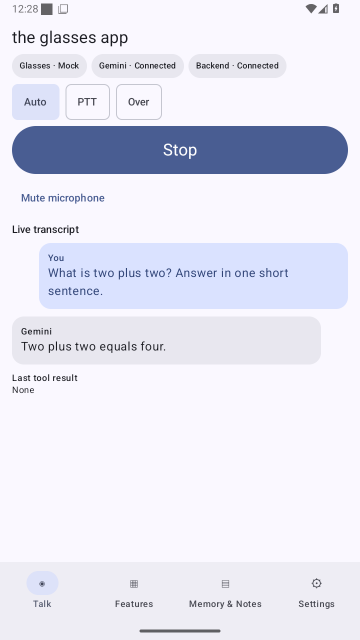
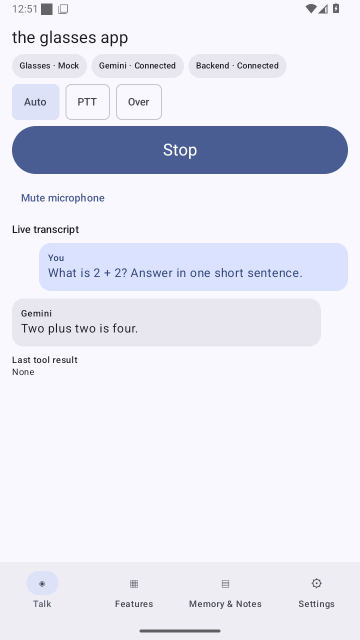
Final emulator smoke PASS on full main; README status

Changed region(s): [[0.0306, 0.4062, 0.9778, 0.625], [0.0611, 0.0, 0.1222, 0.0312]]

diff --git a/README.md b/README.md
@@ -21,11 +21,12 @@ A personal voice assistant for Meta smart glasses that **doesn't cut you off**, 
 | Workout coach | "Start squats, 3 sets of 12" — reps counted from head motion | [workout-coach.md](docs/features/workout-coach.md) |
 | Visual memory (opt-in) | "Where did I leave my keys?" — objects/places only, never faces | [visual-memory.md](docs/features/visual-memory.md) |
 | Dashboard | http://localhost:8787/dashboard | [dashboard.md](docs/features/dashboard.md) |
+| Approvals | Nod / capture button / tap — Gemini can never approve | [device-approvals.md](docs/features/device-approvals.md) |
+| Resilience | Retries, backup model, offline notes when Gemini is down | [resilience.md](docs/features/resilience.md) |
+| App UI | Talk · Features · Memory & Notes · Settings | [app-ui.md](docs/features/app-ui.md) |
 
 ## Status (2026-10-08)
-- Backend 368 tests, Android 181 tests passing. Real Gemini / Codex checks passed per feature (see each doc).
-- **Not yet verified on physical Pixel + glasses.** Google OAuth not configured yet.
-
-## Docs
-- [Architecture & contract](docs/architecture.md) · [Decisions](docs/decisions.md) · [Research index](docs/research/README.md) · [Agent workflow](docs/workflow.md) · [AGENTS.md](AGENTS.md)
-- Setup: [backend/README.md](backend/README.md), [android/README.md](android/README.md)
+- Backend 488 tests, Android 226 tests passing. Real Gemini / Codex checks passed per feature (see each doc).
+- **Emulator smoke PASS** on main: real APK on Android 16 emulator + DAT mock glasses + real Gemini (`scripts/emulator_smoke.sh`, screenshots in `docs/evals/emulator/`).
+- Voice eval: 68/68 tool selection, 0/10 false triggers (`docs/evals/`). Security review + tiered hardware approvals (`docs/security-review.md`).
+- **Not yet verified on physical Pixel + glasses.** Start with `scripts/dev_up.sh` and follow `docs/hardware-test-plan.md`. Google OAuth not configured yet.
